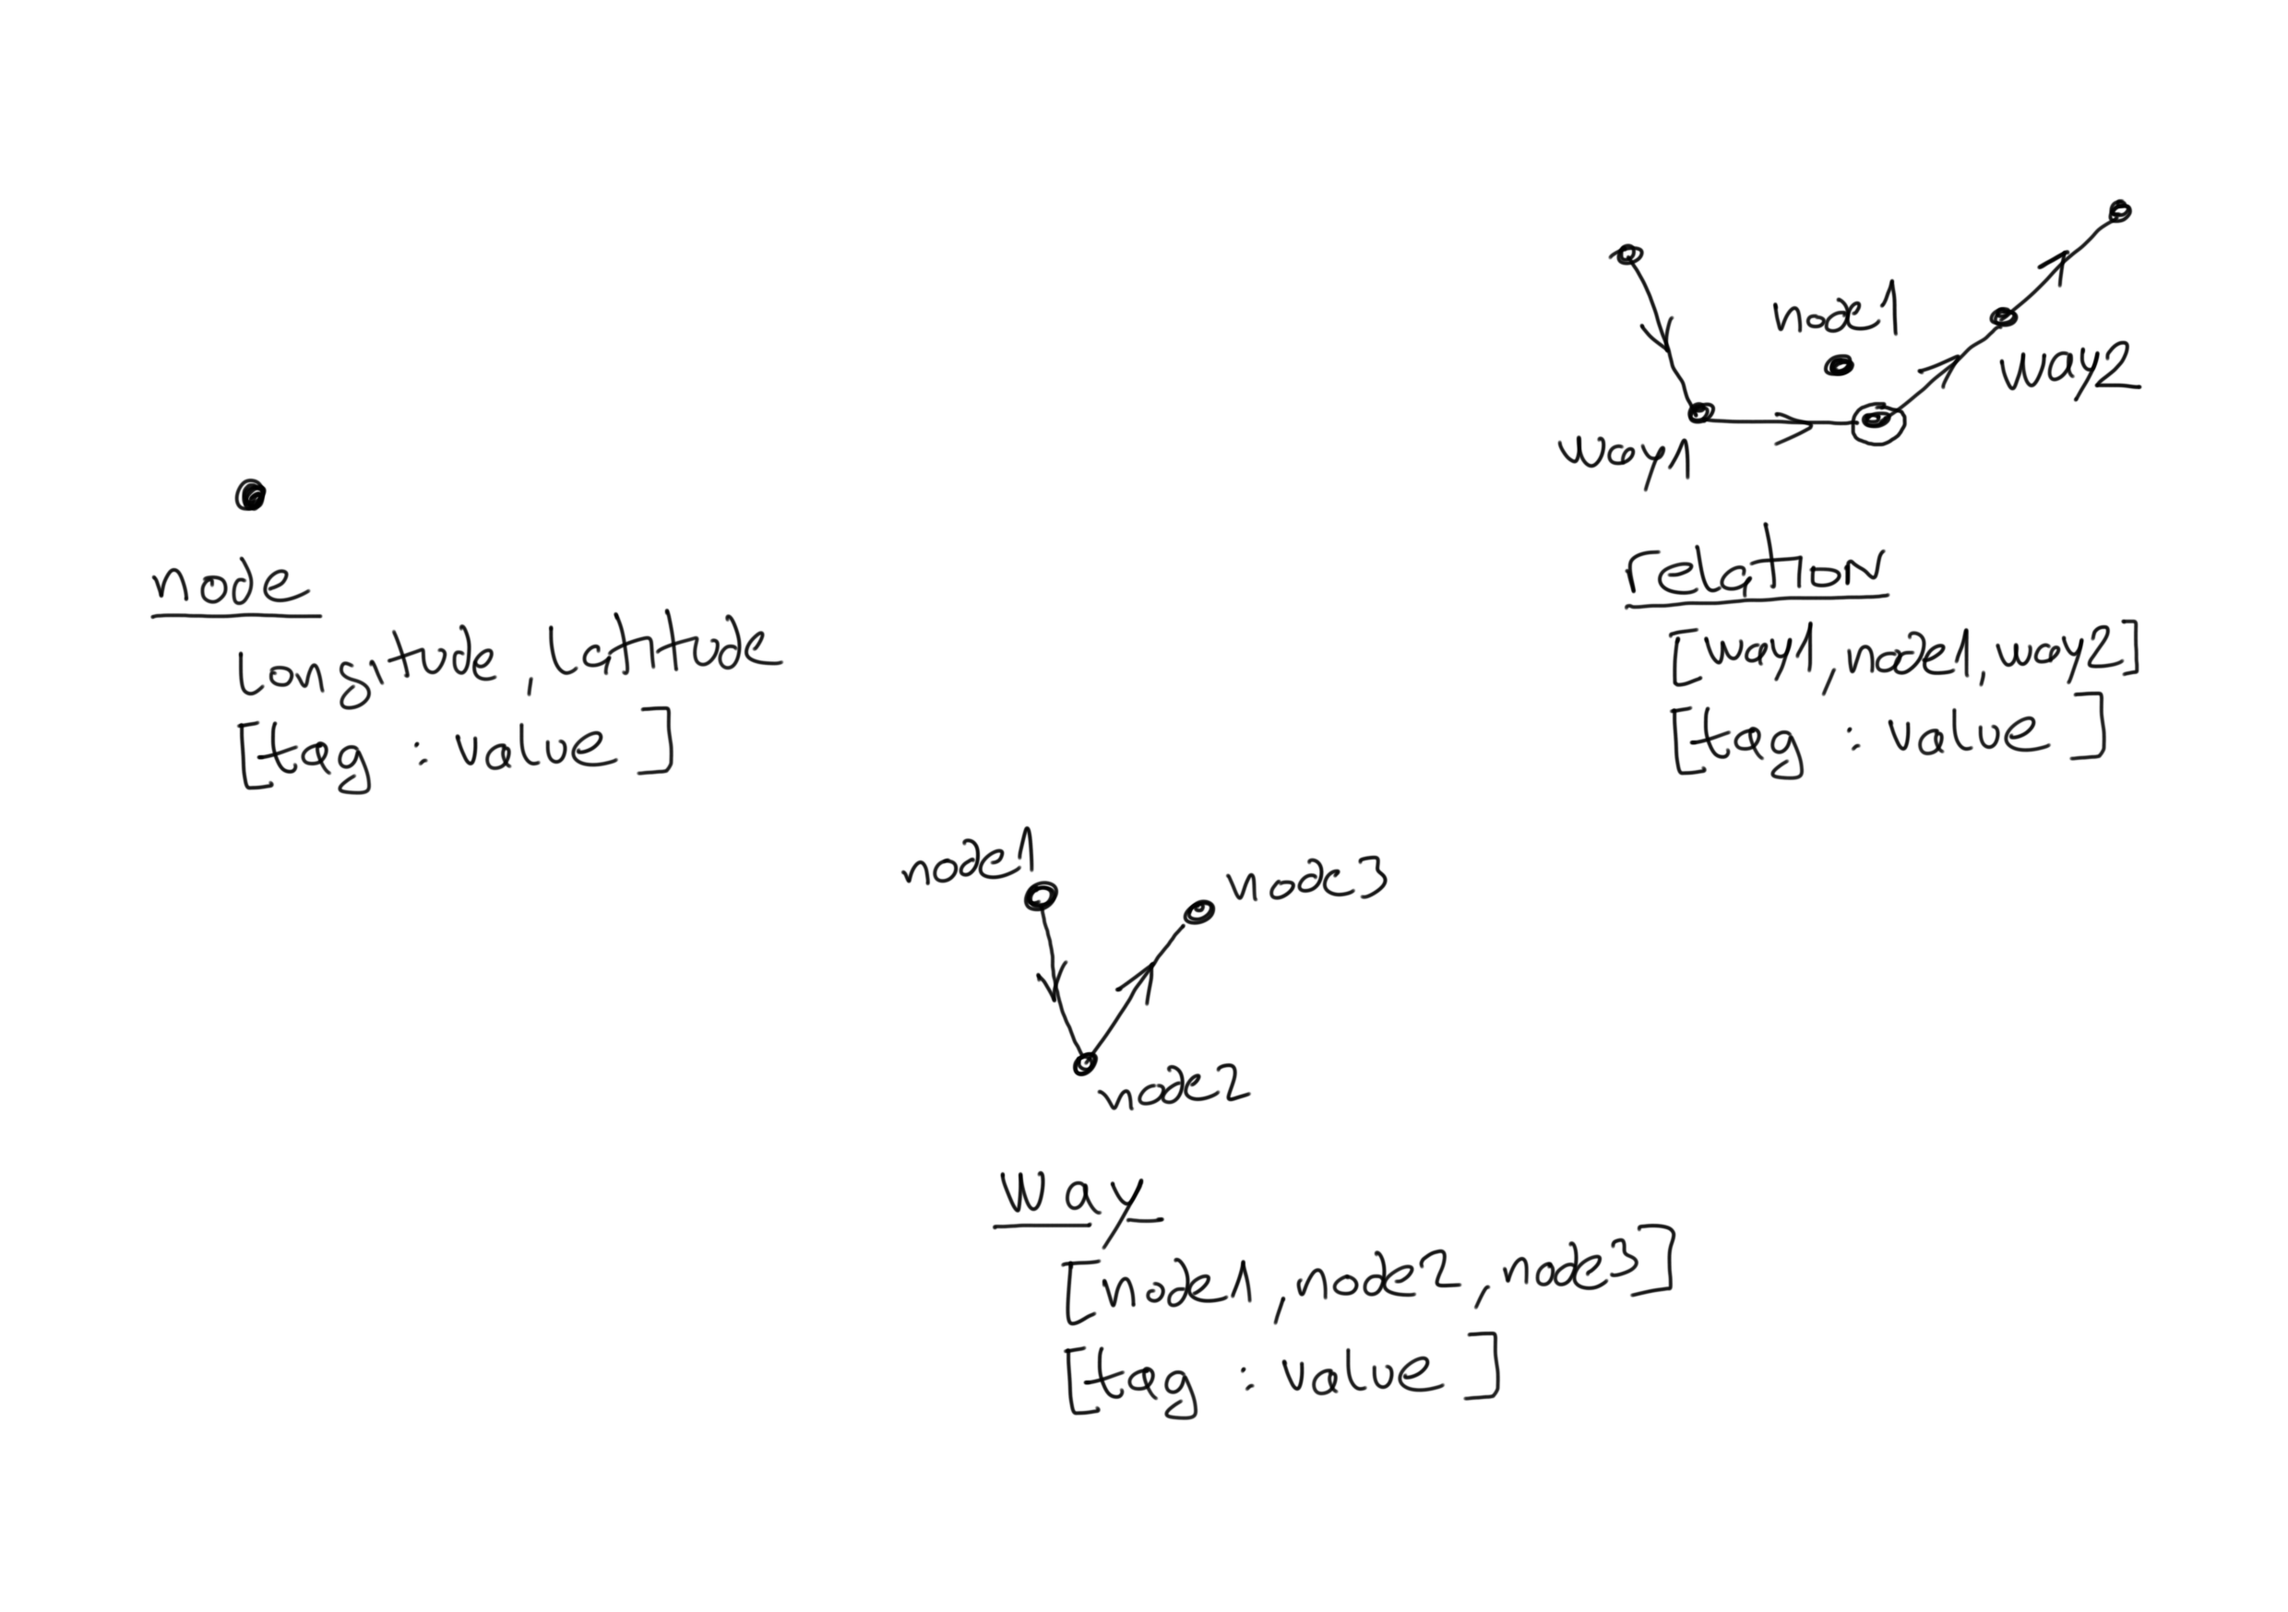
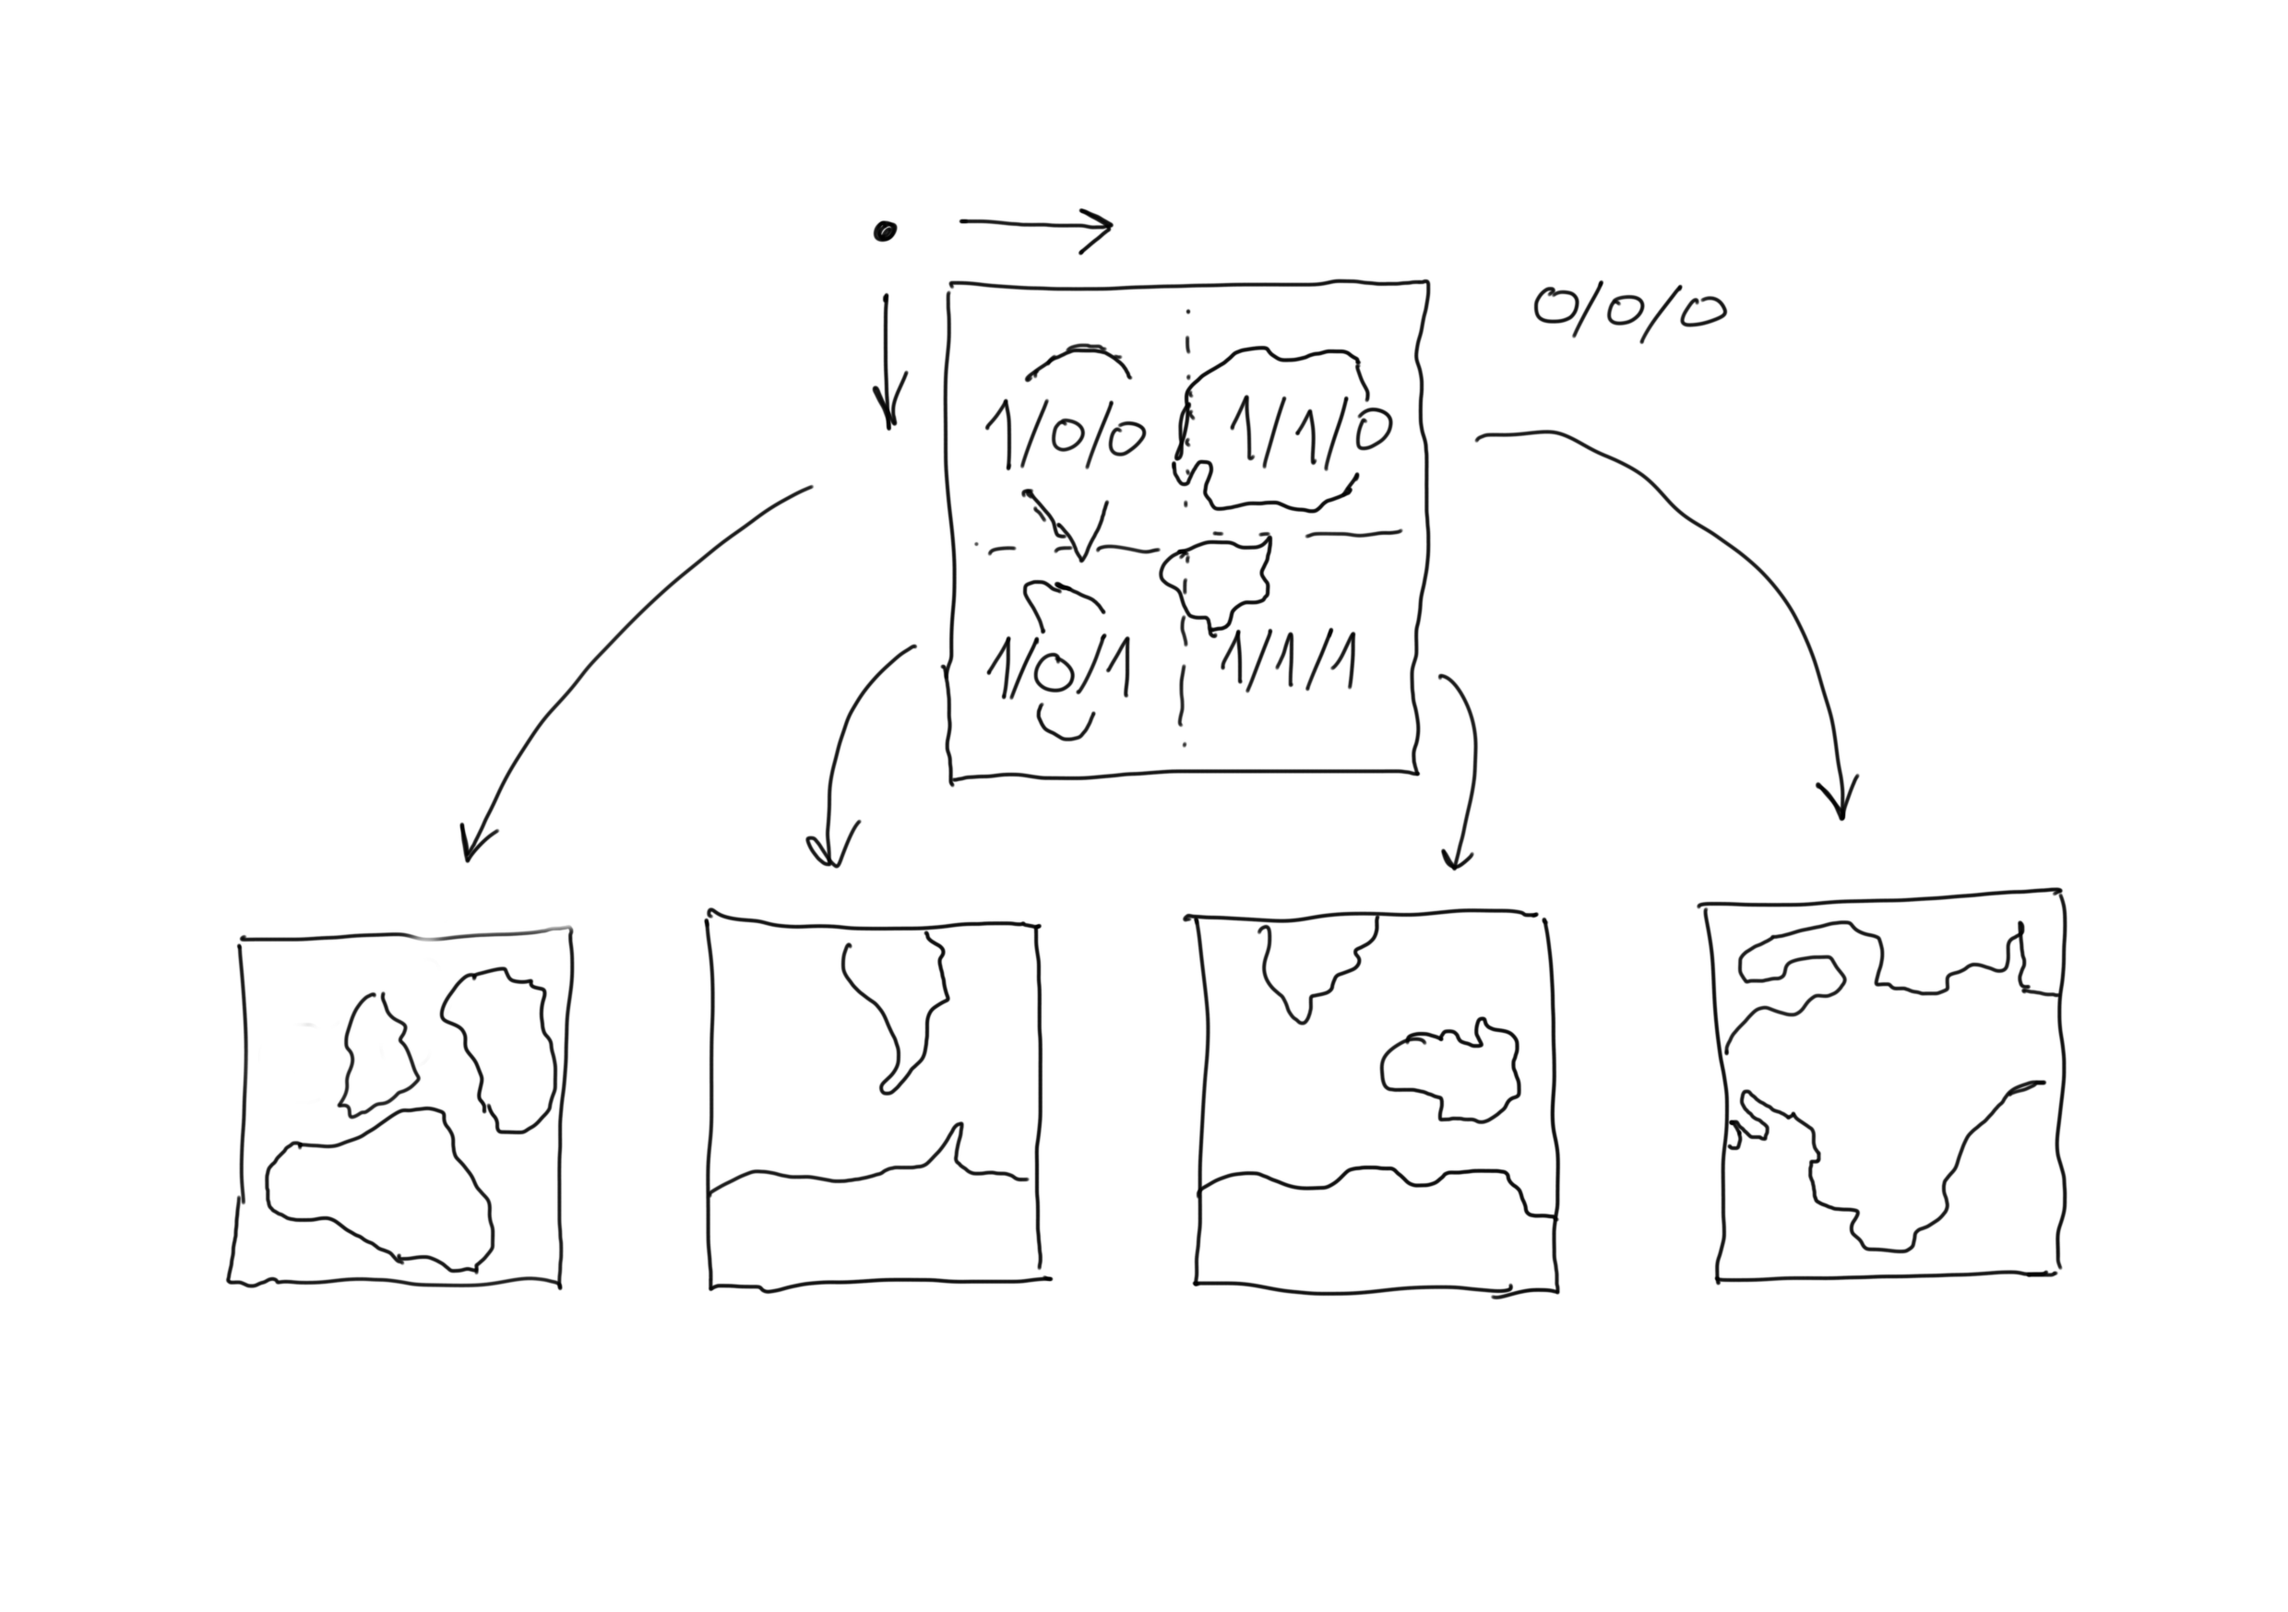
presentation

diff --git a/presentation/pss-kpt-20260930/notes.html b/presentation/pss-kpt-20260930/notes.html
@@ -1,15 +1,84 @@
 <html>
-  <head>
-    <meta charset="UTF-8" />
-    <style>
-      body {font-family: monospace; max-width: 900px; margin: 40px auto;padding: 0 20px;}
-.code-block {background: #f6f8fa; border: 1px solid #d0d7de;border-radius: 6px; padding: 16px; overflow-x: auto;}
+<head>
+<meta charset="UTF-8" />
+<style>
+body {font-family: monospace; max-width: 900px; margin: 40px auto; padding: 0 20px;}
+.code-block {background: #f6f8fa; border: 1px solid #d0d7de; border-radius: 6px; padding: 16px; overflow-x: auto;}
+</style>
+</head>
+<body>
+<div class="note">
+<h1> OSM</h1>
+  <br>
+OSM је база података.  <br>
+  <br>
+<a href="https://openstreetmap.org">https://openstreetmap.org</a> је само сервис за преглед мапе.  <br>
+<br>
 
-    </style>
-  </head>
-  <body>
-    <div class="note">
-      <h1> tile</h1>
+</div>
+<div class="note">
+<h1> OSM екосистем</h1>
+  <br>
+Око OSM постоји екосистем алата и сервиса који читају и   <br>
+мењају базу.   <br>
+  <br>
+Измене (промена постојећих или додавање нових података) се уносе уз помоћ   <br>
+едитора преко интеpфејса за комуникацију са базом (API).  <br>
+<a href="https://wiki.openstreetmap.org/wiki/API_v0.6">https://wiki.openstreetmap.org/wiki/API_v0.6</a>  <br>
+  <br>
+Едитори могу бити опште намене или тематски - усмерени ка групи података.  <br>
+  <br>
+Општи:  <br>
+<a href="https://ideditor.com">https://ideditor.com</a> (Edit на <a href="https://openstreetmap.org)">https://openstreetmap.org)</a>  <br>
+  <br>
+<a href="https://josm.openstreetmap.de">https://josm.openstreetmap.de</a>  <br>
+  <br>
+<a href="https://level0.osmz.ru">https://level0.osmz.ru</a>  <br>
+  <br>
+Анализа и измена података ПСС у OСМ:  <br>
+<a href="https://github.com/vanjakom/osm-pss-integration">https://github.com/vanjakom/osm-pss-integration</a>  <br>
+  <br>
+Едитори за мобилне уређаје:  <br>
+<a href="https://vespucci.io">https://vespucci.io</a>  <br>
+  <br>
+<a href="https://github.com/bryceco/GoMap">https://github.com/bryceco/GoMap</a>  <br>
+  <br>
+<a href="https://streetcomplete.app/">https://streetcomplete.app/</a>  <br>
+  <br>
+<a href="https://every-door.app/">https://every-door.app/</a>  <br>
+  <br>
+Преглед и коришћење података:  <br>
+<a href="https://github.com/openstreetmap-carto/openstreetmap-carto">https://github.com/openstreetmap-carto/openstreetmap-carto</a>  <br>
+  <br>
+<a href="https://overpass-turbo.eu">https://overpass-turbo.eu</a>  <br>
+  <br>
+<a href="https://hiking.waymarkedtrails.org">https://hiking.waymarkedtrails.org</a>  <br>
+  <br>
+<a href="https://opentopomap.org/">https://opentopomap.org/</a>  <br>
+  <br>
+<a href="https://garmin.opentopomap.org">https://garmin.opentopomap.org</a>  <br>
+  <br>
+<a href="https://brouter.de">https://brouter.de</a>  <br>
+  <br>
+<a href="https://staze.pss.rs">https://staze.pss.rs</a>  <br>
+  <br>
+<a href="https://github.com/vanjakom/pss-map-v1/">https://github.com/vanjakom/pss-map-v1/</a>  <br>
+  <br>
+Мобилне апликације:  <br>
+<a href="https://www.alltrails.com">https://www.alltrails.com</a>  <br>
+  <br>
+<a href="https://www.locusmap.app">https://www.locusmap.app</a>  <br>
+  <br>
+<a href="https://osmand.net">https://osmand.net</a>  <br>
+  <br>
+<a href="https://organicmaps.app">https://organicmaps.app</a>  <br>
+  <br>
+<a href="https://maps.me">https://maps.me</a>  <br>
+<br>
+
+</div>
+<div class="note">
+<h1> tile</h1>
   <br>
 <a href="https://tile.openstreetmap.org/0/0/0.png">https://tile.openstreetmap.org/0/0/0.png</a>  <br>
   <br>
@@ -21,9 +90,9 @@
 <a href="https://tile.openstreetmap.org/12/2280/1476.png">https://tile.openstreetmap.org/12/2280/1476.png</a>  <br>
 <br>
 
-    </div>
-    <div class="note">
-      <h1> OSM data model</h1>
+</div>
+<div class="note">
+<h1> OSM data model</h1>
   <br>
 tags - map, list of key, value pairs. key must be unique.  <br>
   <br>
@@ -37,9 +106,9 @@ relation - mixed list of noderef, wayref, relationref, tags  <br>
 relationref - pointer to relation  <br>
 <br>
 
-    </div>
-    <div class="note">
-      <h1> OSM node</h1>
+</div>
+<div class="note">
+<h1> OSM node</h1>
 пијаћа вода  <br>
 <a href="https://www.openstreetmap.org/node/9909056459">https://www.openstreetmap.org/node/9909056459</a>  <br>
   <br>
@@ -47,11 +116,13 @@ relationref - pointer to relation  <br>
 <pre class="code-block">node 9909056459: 44.1277537, 20.0154494  
   amenity = drinking_water  
 </pre>
+  <br>
+<a href="https://wiki.openstreetmap.org/wiki/Tag:amenity%3Ddrinking_water">https://wiki.openstreetmap.org/wiki/Tag:amenity%3Ddrinking_water</a>  <br>
 <br>
 
-    </div>
-    <div class="note">
-      <h1> OSM way</h1>
+</div>
+<div class="note">
+<h1> OSM way</h1>
 Планинарски дом „На пољани”  <br>
 <a href="https://www.openstreetmap.org/way/690352197">https://www.openstreetmap.org/way/690352197</a>  <br>
   <br>
@@ -81,9 +152,9 @@ relationref - pointer to relation  <br>
 </pre>
 <br>
 
-    </div>
-    <div class="note">
-      <h1> OSM relation</h1>
+</div>
+<div class="note">
+<h1> OSM relation</h1>
 Дивчибаре центар - Планинарски дом „На Пољанама”  <br>
 <a href="https://www.openstreetmap.org/relation/14281022">https://www.openstreetmap.org/relation/14281022</a>  <br>
   <br>
@@ -138,24 +209,30 @@ relationref - pointer to relation  <br>
 </pre>
 <br>
 
-    </div>
-    <div class="note">
-      <h1> Демо: Map data и Query tool</h1>
+</div>
+<div class="note">
+<h1> OSM Notes</h1>
+<br>
+<br>
+
+</div>
+<div class="note">
+<h1> Демо: Map data и Query tool</h1>
   <br>
 <a href="https://www.openstreetmap.org/#map=17/44.104113/19.990252">https://www.openstreetmap.org/#map=17/44.104113/19.990252</a>  <br>
 <br>
 
-    </div>
-    <div class="note">
-      <h1> Демо: Overpass turbo</h1>
+</div>
+<div class="note">
+<h1> Демо: Overpass turbo</h1>
   <br>
 Пијаћа вода на Дивчибарама:  <br>
 <a href="https://overpass-turbo.eu/s/2xe8">https://overpass-turbo.eu/s/2xe8</a>  <br>
 <br>
 
-    </div>
-    <div class="note">
-      <h1> Демо: додавање забелешке и измена OSM</h1>
+</div>
+<div class="note">
+<h1> Демо: додавање забелешке и измена OSM</h1>
   <br>
 Креираћемо забелешку и решити је изменом OSM базе.  <br>
   <br>
@@ -163,18 +240,18 @@ relationref - pointer to relation  <br>
 <a href="https://www.openstreetmap.org/node/13592011429">https://www.openstreetmap.org/node/13592011429</a>  <br>
 <br>
 
-    </div>
-    <div class="note">
-      <h1> Демо: додавање планинарске стазе</h1>
+</div>
+<div class="note">
+<h1> Демо: додавање планинарске стазе</h1>
   <br>
 <a href="https://pss.rs/terenipp/narcisu-u-pohode/">https://pss.rs/terenipp/narcisu-u-pohode/</a>  <br>
   <br>
 <a href="https://vanjakom.github.io/osm-pss-integration/dataset/osm-state.html">https://vanjakom.github.io/osm-pss-integration/dataset/osm-state.html</a>  <br>
 <br>
 
-    </div>
-    <div class="note">
-      <h1> OSM Заједница у Србији</h1>
+</div>
+<div class="note">
+<h1> ОСМ Заједница у Србији</h1>
   <br>
 generalni wiki  <br>
   <br>
@@ -183,9 +260,9 @@ generalni wiki  <br>
 <a href="https://wiki.openstreetmap.org/wiki/Serbia/Projekti">https://wiki.openstreetmap.org/wiki/Serbia/Projekti</a>  <br>
 <br>
 
-    </div>
-    <div class="note">
-      <h1> Пројекти од интереса за Планинаре</h1>
+</div>
+<div class="note">
+<h1> Пројекти од интереса за Планинаре</h1>
   <br>
 <a href="https://wiki.openstreetmap.org/wiki/Serbia/PD_Kablar_staze">https://wiki.openstreetmap.org/wiki/Serbia/PD_Kablar_staze</a>  <br>
 <a href="https://wiki.openstreetmap.org/wiki/Serbia/Projekti/NP_Tara_staze">https://wiki.openstreetmap.org/wiki/Serbia/Projekti/NP_Tara_staze</a>  <br>
@@ -205,6 +282,6 @@ generalni wiki  <br>
 <a href="https://wiki.openstreetmap.org/wiki/Serbia/Beleske/Planinari_i_OSM">https://wiki.openstreetmap.org/wiki/Serbia/Beleske/Planinari_i_OSM</a>  <br>
 <br>
 
-    </div>
-  </body>
+</div>
+</body>
 </html>

diff --git a/presentation/pss-kpt-20260930/presentation.html b/presentation/pss-kpt-20260930/presentation.html
@@ -25,6 +25,21 @@
     <div class="slide">
       <img src="slide-05.png" />
     </div>
+    <div class="slide">
+      <img src="slide-06.png" />
+    </div>
+    <div class="slide">
+      <img src="slide-07.png" />
+    </div>
+    <div class="slide">
+      <img src="slide-08.png" />
+    </div>
+    <div class="slide">
+      <img src="slide-09.png" />
+    </div>
+    <div class="slide">
+      <img src="slide-10.png" />
+    </div>
     <script>
       var current = 0;
 var slides = Array.prototype.slice.call(document.getElementsByClassName('slide'));

diff --git a/presentation/pss-kpt-osm-integration/notes.md b/presentation/pss-kpt-osm-integration/notes.md
@@ -9,6 +9,10 @@ imam slajd sa fajlovima
 
 # README.md
 
+https://github.com/vanjakom/osm-pss-integration
+
+https://github.com/vanjakom/pss-map-v1/
+
 napraviti readme fajl koji objasnjava sta se gde nalazi
 
 dodati link na ovu prezentaciju
